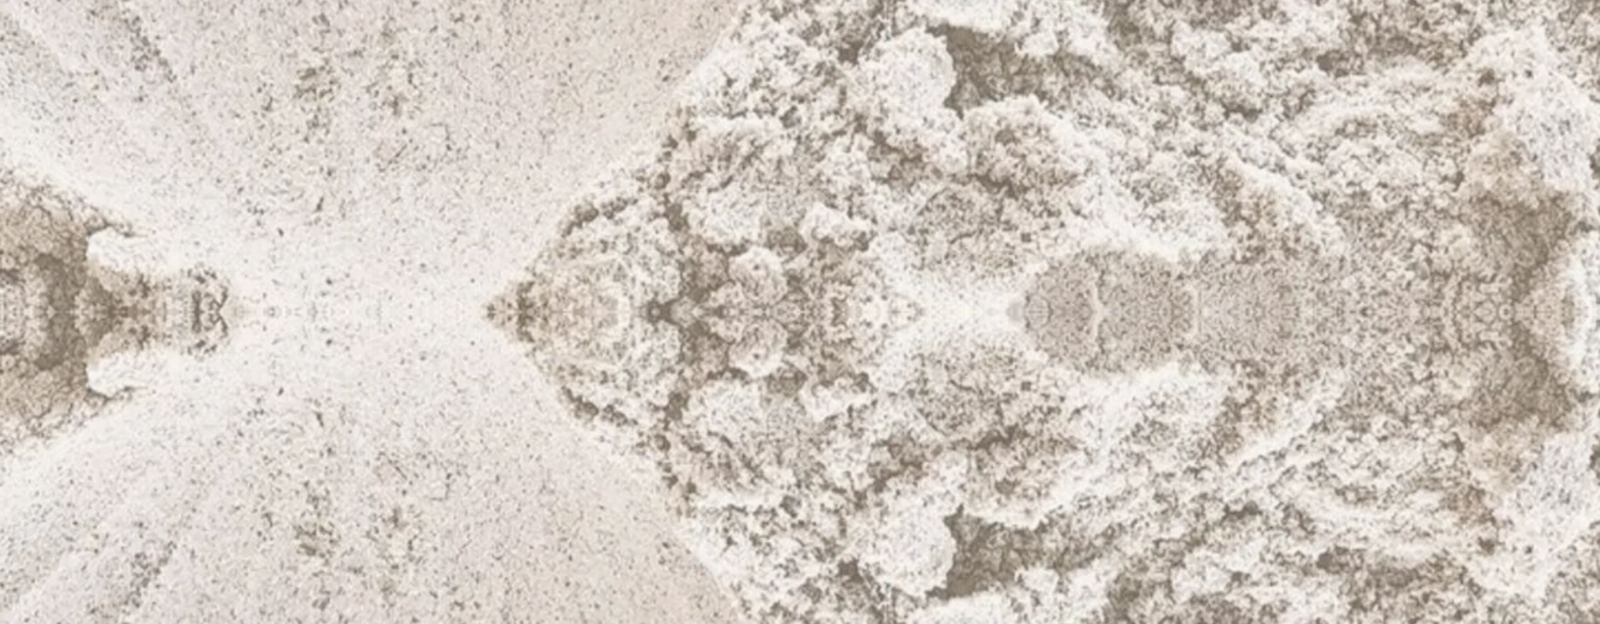
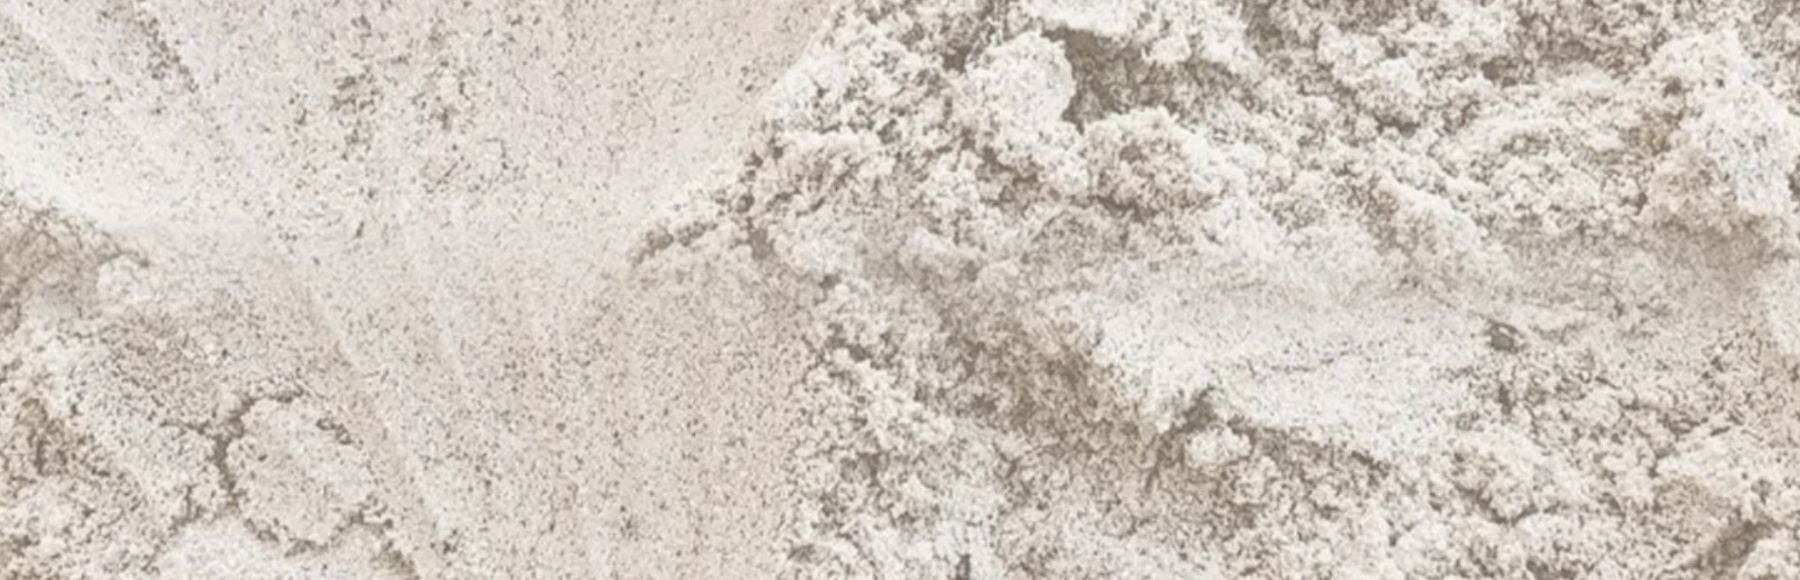
Añadir efecto parallax con GSAP y ScrollTrigger
Franja de arena que se expande a todo el ancho al hacer scroll,
imagen de quiénes somos que se abre con zoom suave, parallax en la
portada y capturas de los casos que crecen al entrar en pantalla.
Respeta prefers-reduced-motion y funciona sin GSAP.

Claude-Session: https://claude.ai/code/session_01Rdz3H1yJqVRLiPc3Jmj6ve

diff --git a/index.html b/index.html
@@ -93,6 +93,24 @@
     .stat strong { display: block; font-family: "Fraunces", serif; font-weight: 400; font-size: 1.7rem; color: var(--ink); line-height: 1.1; }
     .stat span { font-size: .75rem; color: var(--muted); }
 
+    /* ---------- Parallax / imágenes que se expanden ---------- */
+    .expand-band { padding: 0 0 40px; }
+    .expand-media {
+      position: relative; height: 82vh; min-height: 420px; overflow: hidden;
+      display: grid; place-items: center; text-align: center;
+      will-change: clip-path;
+    }
+    .expand-img {
+      position: absolute; inset: -12% 0; background: url("assets/arena.jpg") center / cover;
+      will-change: transform;
+    }
+    .expand-img::after { content: ""; position: absolute; inset: 0; background: rgba(248, 245, 240, .25); }
+    .expand-text {
+      position: relative; font-family: "Fraunces", serif; font-weight: 300;
+      font-size: clamp(2rem, 5vw, 3.8rem); line-height: 1.15; color: var(--ink); padding: 0 16px;
+    }
+    .expand-text em { font-style: italic; }
+
     /* ---------- ¿Te suena? ---------- */
     .pains { display: grid; grid-template-columns: 1fr 1fr; column-gap: 64px; }
     .pain { padding: 22px 0 22px 40px; border-bottom: 1px solid var(--line); position: relative; color: var(--text); }
@@ -105,8 +123,8 @@
 
     /* ---------- Quiénes somos ---------- */
     .about-grid { display: grid; grid-template-columns: 1fr 1fr; gap: 96px; align-items: center; }
-    .about-visual { aspect-ratio: 4 / 5; background: url("assets/arena.jpg") center / cover; }
-    .about-visual .team, .about-visual .tag { display: none; }
+    .about-visual { aspect-ratio: 4 / 5; position: relative; overflow: hidden; will-change: clip-path; }
+    .about-img { position: absolute; inset: 0; background: url("assets/arena.jpg") center / cover; will-change: transform; }
     .about-text p { margin-bottom: 1rem; }
     .values { display: flex; flex-wrap: wrap; gap: 8px 24px; margin-top: 2rem; }
     .values span { font-size: .85rem; color: var(--ink); padding-bottom: 2px; border-bottom: 1px solid var(--sand); }
@@ -303,7 +321,7 @@
     <!-- ================= HERO ================= -->
     <section class="hero" id="inicio">
       <div class="container hero-grid">
-        <div class="reveal">
+        <div class="hero-text">
           <span class="eyebrow">Agencia de redes sociales</span>
           <h1>Creamos redes sociales que <em>enamoran y venden</em>.</h1>
           <p class="lead">Somos un equipo de mujeres especializadas en crear contenido para redes sociales. Diseñamos posts, reels y estrategias que convierten seguidores en clientes.</p>
@@ -312,7 +330,7 @@
             <a href="#casos" class="btn btn-outline">Ver antes y después</a>
           </div>
         </div>
-        <aside class="hero-card reveal">
+        <aside class="hero-card">
           <span class="gift">Regalo</span>
           <h3>Mentoría privada gratis</h3>
           <p>Agenda una llamada con nosotras y te regalamos una sesión de mentoría 1:1 para tu negocio.</p>
@@ -325,6 +343,14 @@
         </aside>
       </div>
     </section>
+
+    <!-- ================= IMAGEN QUE SE EXPANDE ================= -->
+    <div class="expand-band">
+      <div class="expand-media">
+        <div class="expand-img" aria-hidden="true"></div>
+        <p class="expand-text">Contenido que se siente<br><em>como tu marca</em></p>
+      </div>
+    </div>
 
     <!-- ================= ¿TE SUENA? ================= -->
     <section id="problema">
@@ -354,13 +380,8 @@
     <!-- ================= QUIÉNES SOMOS ================= -->
     <section id="quienes-somos">
       <div class="container about-grid">
-        <div class="about-visual reveal" aria-hidden="true">
-          <div class="team">
-            <div class="avatar">L</div>
-            <div class="avatar">M</div>
-            <div class="avatar">S</div>
-          </div>
-          <div class="tag">“Creemos en las redes con alma, estrategia y mucha cercanía.”</div>
+        <div class="about-visual" aria-hidden="true">
+          <div class="about-img"></div>
         </div>
         <div class="about-text reveal">
           <span class="eyebrow">Quiénes somos</span>
@@ -661,6 +682,8 @@
     </div>
   </footer>
 
+  <script src="https://cdnjs.cloudflare.com/ajax/libs/gsap/3.12.5/gsap.min.js"></script>
+  <script src="https://cdnjs.cloudflare.com/ajax/libs/gsap/3.12.5/ScrollTrigger.min.js"></script>
   <script>
     // Menú móvil
     const toggle = document.querySelector('.menu-toggle');
@@ -694,6 +717,61 @@
     });
 
     document.getElementById('year').textContent = new Date().getFullYear();
+
+    // Parallax con GSAP + ScrollTrigger.
+    // Si GSAP no carga o la persona prefiere menos movimiento, la web se ve igual pero estática.
+    if (window.gsap && window.ScrollTrigger) {
+      gsap.registerPlugin(ScrollTrigger);
+      gsap.matchMedia().add('(prefers-reduced-motion: no-preference)', () => {
+        const scrub = { scrub: 1.2 };
+
+        // Portada: el texto sube más despacio que el scroll
+        gsap.to('.hero-text', {
+          yPercent: -18, opacity: .3, ease: 'none',
+          scrollTrigger: { trigger: '.hero', start: 'top top', end: 'bottom top', ...scrub }
+        });
+        gsap.to('.hero-card', {
+          yPercent: -35, ease: 'none',
+          scrollTrigger: { trigger: '.hero', start: 'top top', end: 'bottom top', ...scrub }
+        });
+
+        // Franja de arena: se expande hasta ocupar todo el ancho
+        gsap.fromTo('.expand-media',
+          { clipPath: 'inset(8% 16% 8% 16% round 18px)' },
+          { clipPath: 'inset(0% 0% 0% 0% round 0px)', ease: 'none',
+            scrollTrigger: { trigger: '.expand-band', start: 'top 90%', end: 'center center', ...scrub } });
+        gsap.fromTo('.expand-img', { yPercent: -8, scale: 1.15 }, {
+          yPercent: 8, scale: 1, ease: 'none',
+          scrollTrigger: { trigger: '.expand-band', start: 'top bottom', end: 'bottom top', ...scrub }
+        });
+        gsap.from('.expand-text', {
+          y: 60, opacity: 0, ease: 'none',
+          scrollTrigger: { trigger: '.expand-band', start: 'top 70%', end: 'center center', ...scrub }
+        });
+
+        // Quiénes somos: la imagen se abre y hace zoom suave
+        gsap.fromTo('.about-visual',
+          { clipPath: 'inset(14% 14% 14% 14%)' },
+          { clipPath: 'inset(0% 0% 0% 0%)', ease: 'none',
+            scrollTrigger: { trigger: '.about-visual', start: 'top 95%', end: 'center 55%', ...scrub } });
+        gsap.fromTo('.about-img', { scale: 1.3, yPercent: -6 }, {
+          scale: 1, yPercent: 6, ease: 'none',
+          scrollTrigger: { trigger: '.about-visual', start: 'top bottom', end: 'bottom top', ...scrub }
+        });
+
+        // Casos: las capturas y vídeos crecen al entrar en pantalla
+        gsap.utils.toArray('.case').forEach(c => {
+          gsap.fromTo(c.querySelectorAll('.phone'), { scale: .86, opacity: .4 }, {
+            scale: 1, opacity: 1, ease: 'none', stagger: .08,
+            scrollTrigger: { trigger: c, start: 'top 90%', end: 'top 35%', ...scrub }
+          });
+          gsap.fromTo(c.querySelector('.case-video'), { yPercent: 12 }, {
+            yPercent: -6, ease: 'none',
+            scrollTrigger: { trigger: c, start: 'top bottom', end: 'bottom top', ...scrub }
+          });
+        });
+      });
+    }
   </script>
 </body>
 </html>
